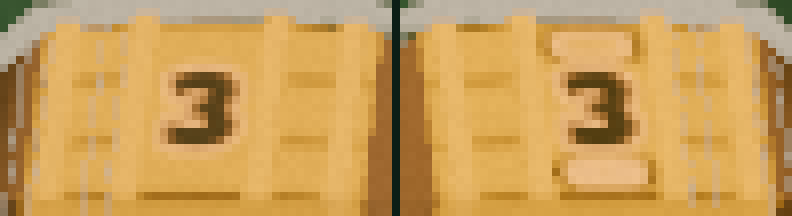
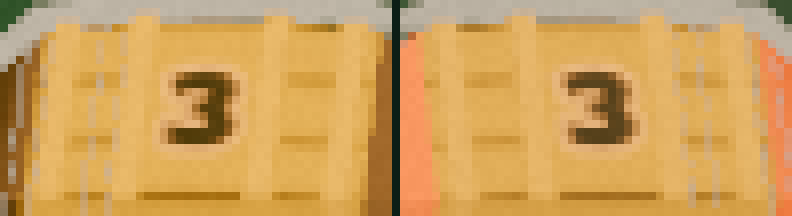
Move the Powder Keg Twin cue onto the lid ends.
Atlas cell 23, both lids, mixes toward Ember as albedo. Emission stays 0 and the hoops stay cell 24. Cell 2 of the mask is clear, and the halo keyline strength is 0.

diff --git a/docs/ARCHITECTURE.md b/docs/ARCHITECTURE.md
@@ -310,7 +310,7 @@ that you add gets a row in [AI_CONTENT_LOG.md](AI_CONTENT_LOG.md).
 - **Powder Keg readability:** the barrel (die id `powder_keg`, body shape `keg`) is read from the stave pointing up (values 1, 1, 2, 2, 3, 3). That stave faces the sky, so the angled camera sees a neighbouring stave (a different number) more face-on. Two readouts, no new signals, and no extra glow (emission stays the normal scoring glow, <= 0.3):
   - `scripts/table3d/keg_value_tag.gd` (`KegValueTag`, child `KegValueTag` of the die, a `D4ValueTag`) is an unlit camera-facing label of `DieVisual.shown_value()`. `PolyBody.dress` attaches it.
   - `scripts/table3d/keg_stave_dim.gd` (`KegStaveDim`, child `KegStaveDim`) listens to the die's existing `settled` signal and to the table's existing `throw_started`. On settle it sets instance uniforms `lit_stave` (the face value 1, 2 or 3) and `stave_dim` (0..1, about 0.15 s, instant under reduced motion or Instant speed) on that die's body mesh. `shaders/3d/keg_stave_dim.gdshaderinc`, included by both `toon_noir.gdshader` and `toon_noir_twin.gdshader`, fades numeral ink in the other atlas cells toward the stave wood (value v lives in cell v−1; about 30% contrast remains). Lids and hoops are not numeral cells, so they stay. While the keg is rolling, and on every other die, both uniforms stay 0 and every numeral is full. `KegStaveDim` also sets instance uniform `keg_body` to 1 on that mesh only, and sets the body's `spec_strength` to 0.05. Specular and rim then stay off every mustard stave cell, including the gutter cells between the numerals. Only the lids (atlas cell 23) and the hoops (cell 24) keep a shine, and that shine is a soft lobe (`smoothstep(0.40, 0.82, N·H)`) instead of the bone die's hard step at `spec_size` 0.97. Other dice are unchanged. No emission is added. A new throw clears them at once. The separate rare "Powder Barrel" d6 (`barrel`) is not this die. Tests: `tests/test_keg_readable.gd`, `tests/test_keg_stave_dim.gd`.
-- **Powder Keg Twin Face:** `art/models/dice/materials/powder_keg_body.tres` uses `shaders/3d/toon_noir_twin.gdshader` with `twin_mask` = `art/fx/twin_face/powder_keg_twin_mask.png` (UV1, 1024, marks in cell 2 / the 3s only). `DieArtMaterial.apply` puts that material on the die only when a face is carved Twin, and adds a `TwinFaceGlow` child that listens to the die's existing `settled` / `impact` signals. A keg with no Twin carve stays on `toon_noir` with the same body colours. No new signal. On this keg only, `twin_strength` and `twin_halo_strength` (emission) are 0 and `twin_unlit` is cream `#E8DCC0` (mask R only). `twin_halo_color` is dark ink `#1E1712` and `twin_halo_tint_strength` is 1: where the mask's G is set and R is not, the shader mixes the albedo toward that ink. The tint strength defaults to 0, so other Twin dice are unchanged. Shared TwinFaceGlow defaults stay 1.6 and `#403440`. `KegStaveDim` still sets `lit_stave`, `stave_dim`, `keg_body` and `spec_strength` 0.05 on that twin material. `emission_energy` stays the scoring glow (<= 0.3). Test: `tests/test_keg_twin_mask.gd`.
+- **Powder Keg Twin Face:** `art/models/dice/materials/powder_keg_body.tres` uses `shaders/3d/toon_noir_twin.gdshader` with `twin_mask` = `art/fx/twin_face/powder_keg_twin_mask.png` (UV1, 1024, marks in cell 2 / the 3s only). `DieArtMaterial.apply` puts that material on the die only when a face is carved Twin, and adds a `TwinFaceGlow` child that listens to the die's existing `settled` / `impact` signals. A keg with no Twin carve stays on `toon_noir` with the same body colours. No new signal. On this keg only, `twin_strength` and `twin_halo_strength` (emission) are 0 and `twin_halo_tint_strength` is 0 (the keyline uniform stays in the shader, off). Cell 2 of the mask is clear. `twin_lid_color` is Ember `#E8622A` and `twin_lid_strength` is 1: atlas cell 23 (both lid ends) mixes toward that colour. Cell 24 is the hoops and is not tinted. Lid strength defaults to 0, so other Twin dice are unchanged. Shared TwinFaceGlow defaults stay 1.6 and `#403440`. `KegStaveDim` still sets `lit_stave`, `stave_dim`, `keg_body` and `spec_strength` 0.05 on that twin material. `emission_energy` stays the scoring glow (<= 0.3). Test: `tests/test_keg_twin_mask.gd`.
 - **Nerve panel dodge (#198):** `NerveUi._place_panels` puts the "Nerve ready" pip and the rescue prompt at their home spot, then through `RulesPlaqueDodge.place(rect, blockers, view)` (left, below, above, right; else least overlap). The blockers (`NerveUi._blockers`) are the landed dice (`RulesPlaqueDodge.die_rect`) plus `HudTextRects.collect`, minus the Nerve UI's own labels and the bounty cards it hangs under. Target HUD v2.1: the goal plate (grown 24 px) is a blocker too, Nerve re-places in the same frame the plate or SEALS chip moves (`item_rect_changed`), and when all 4 spots overlap the dodge sweeps for the first clear spot. Test: `tests/test_target_hud.gd`. Test: `tests/test_nerve_die_clear.gd` (PC 16:9 and phone 844x390, d4 parked under the pip).
 
 <!-- SECTION: VFX Dev — FX (owner text; replace freely) -->

diff --git a/docs/AI_CONTENT_LOG.md b/docs/AI_CONTENT_LOG.md
@@ -83,7 +83,7 @@ VFX Dev = FX textures and shaders, Game Designer = text. Sources are in brackets
 | `art/models/dice/shaders/toon_mirror.gdshader` | **AI-assisted:** shader code written by Grok Bot agents | Mirror Die toon shader. [VFX Dev, git check 2026-10-19] | 2026-10-18 | VFX Dev |
 | `shaders/3d/toon_noir_twin.gdshader`, `shaders/3d/twin_face_mask.gdshaderinc` | **AI-assisted:** shader code written by Grok Bot VFX Dev agent | Twin Face glow mask: toon_noir variant + include (Powder Keg Ember glyph; up+settled gate). `toon_noir.gdshader` untouched. [VFX Dev / PR #113] | 2026-10-19 | VFX Dev |
 | `art/fx/twin_face/twin_face_mask_standin.png` | **AI-assisted (agent-written script):** Python + Pillow stand-in generated by the VFX Dev agent; not final art (3D Artist ships the real mask after batch-3) | Stand-in UV1 mask (R=hard glyph, G=soft halo) for Twin Face tests and captures. [art/fx/twin_face/README.md; VFX Dev / PR #113] | 2026-10-19 | VFX Dev |
-| `art/fx/twin_face/powder_keg_twin_mask.png` | **AI-assisted (agent-written script):** Art Director handoff, regenerator `make_twin_mask.py` (make_faces-style). Cell 2 was redrawn in Python/Pillow on 2026-11-13 (no generative image model) so the two ticks sit in the gutters, clear of the 3. See `art/fx/twin_face/powder_keg_twin_SPEC.md` | Shipped Twin Face UV1 mask for the Powder Keg 3s. 1024 RGBA, R = hard glyph, G = halo (0 inside R), B = 0, A = 255, marks in cell 2 only. Weights, not a coloured texture. The redraw keeps a hollow tick above the 3 and a solid tick with a pip hole below it (atlas +X is up in rest pose), each about 13×29 texels, with a G ring for the ink keyline. | 2026-11-12, redrawn 2026-11-13 | Art Director |
+| `art/fx/twin_face/powder_keg_twin_mask.png` | **AI-assisted (agent-written script):** Art Director handoff, regenerator `make_twin_mask.py` (make_faces-style). On 2026-11-13 cell 2's R and G were cleared in Python/Pillow (no generative image model) so the numeral gutter is empty. The Twin cue moved to an Ember lid tint in the shader. See `art/fx/twin_face/powder_keg_twin_SPEC.md` | Shipped Twin Face UV1 mask for the Powder Keg. 1024 RGBA, B = 0, A = 255. Cell 2 (the 3s) is clear. Weights, not a coloured texture. | 2026-11-12, cleared 2026-11-13 | Art Director |
 | `assets/vfx/trigger_fx/icons/` (8 PNGs: `icon_mirror_copy`, `icon_gilded_payout`, `icon_coin_heads_copy`, `icon_coin_tails_copy`, `icon_coin_alone_heads`, `icon_hellfire_face`, `icon_wild_face`, `icon_generic`) | **AI-assisted (agent-written script):** Art Director's code-generated art (SVG/Pillow sheet); no AI image generation. Copied into the repo for the trigger FX rows. | Baked 128 px icon discs (glyph + rim studs) shown at 32 px @720p on trigger hit. [team art folder `art/vfx/trigger_fx/`; VFX Dev / PR #105] | 2026-10-19 | Art Director |
 | `assets/vfx/trigger_fx/shapes/` (20 PNGs: `ring_pulse_soft`, `radial_glow_soft`, `glint_streak`, `spark_dot_soft`, `coin_brass_{face,tilt,edge}`, `chip_x{1_5,2,3}`, plus fill/outline pairs for `frame_square`, `frame_hex`, `needles_radial`, `shine_bar`, `spark_diamond`) | **AI-assisted (agent-written script):** Art Director's code-generated art (SVG/Pillow); no AI image generation. Soft shapes tinted at runtime; hard shapes keep a fixed oxblood outline. | Trigger FX cards, glints, sparks, brass coin frames and multiplier chips. [team art folder `art/vfx/trigger_fx/`; VFX Dev / PR #105] | 2026-10-19 | Art Director |
 | `tools/capture_trigger_fx.gd` | **AI-assisted:** capture tool written by the Grok Bot VFX Dev agent | Headless/Vulkan strip captures of the four first trigger FX rows for QA / Art Director review. Excluded from export (`tests/*`, `tools/*`). [VFX Dev / PR #105] | 2026-10-19 | VFX Dev |

diff --git a/scripts/fx/README.md b/scripts/fx/README.md
@@ -125,7 +125,7 @@ Lit core: albedo lerps to near-black (`0.02`) by `R * gate` so the lamp does not
 
 1. `art/fx/twin_face/powder_keg_twin_mask.png` is the shipped UV1 mask (mark in the **3's cell**, index 2). The stand-in stays for the older glow tests. Import is non-colour / lossless / mipmaps.
 2. `powder_keg_body.tres` points at `res://shaders/3d/toon_noir_twin.gdshader` with `twin_mask` set. Ink outline `next_pass` and the face atlas stay. Ink stays in albedo, not in the mask.
-3. `DieArtMaterial` uses that material only when the die has a Twin carve. A keg with no Twin carve keeps `toon_noir` and the same body colours. After `bind_material`, the keg sets `twin_strength` and `twin_halo_strength` to 0 and `twin_unlit` to cream `#E8DCC0`. It also sets `twin_halo_color` to ink `#1E1712` and `twin_halo_tint_strength` to 1, an albedo keyline on the mask's G (not emission). That tint defaults to 0, so other Twin dice keep the defaults in the table above. `emission_energy` is not raised.
+3. `DieArtMaterial` uses that material only when the die has a Twin carve. A keg with no Twin carve keeps `toon_noir` and the same body colours. After `bind_material`, the keg sets `twin_strength`, `twin_halo_strength` and `twin_halo_tint_strength` to 0. It sets `twin_lid_color` to Ember `#E8622A` and `twin_lid_strength` to 1, an albedo mix on atlas cell 23 (both lid ends, not the hoops). Lid strength defaults to 0, so other Twin dice keep the defaults in the table above. `emission_energy` is not raised.
 4. Runtime: `TwinFaceGlow` → `bind_material(body_mat)` → `bind_die(die_visual)` (settled lights it, impact clears it). Stave normals outward.
 
 ### Tests / capture
